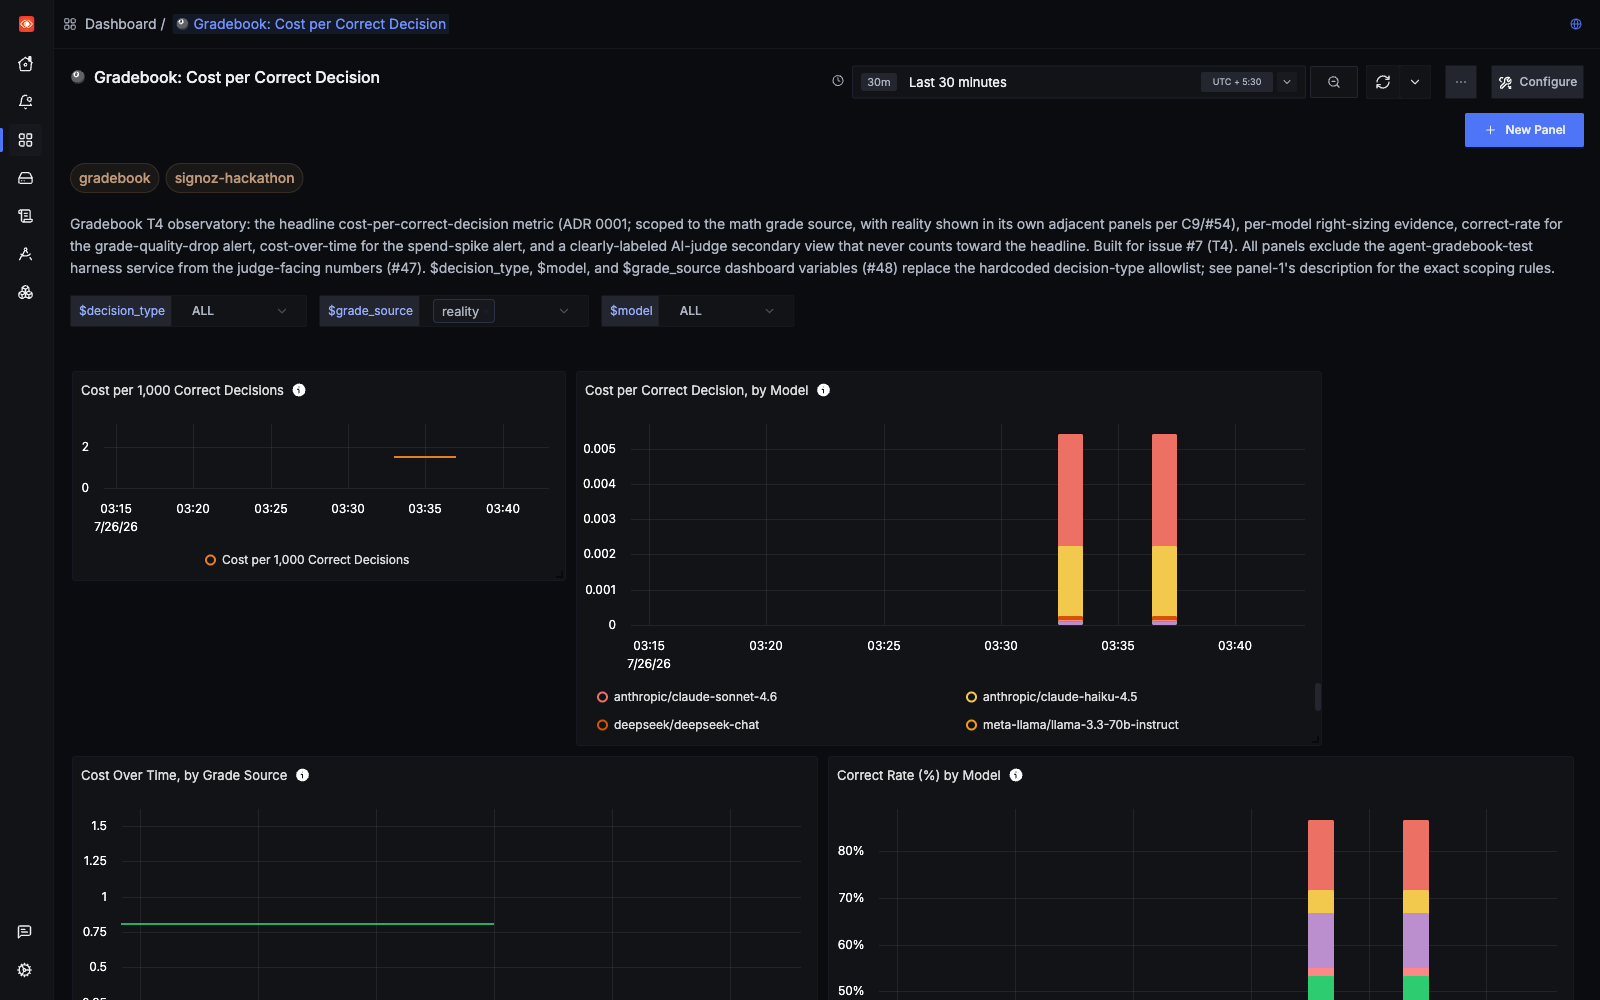
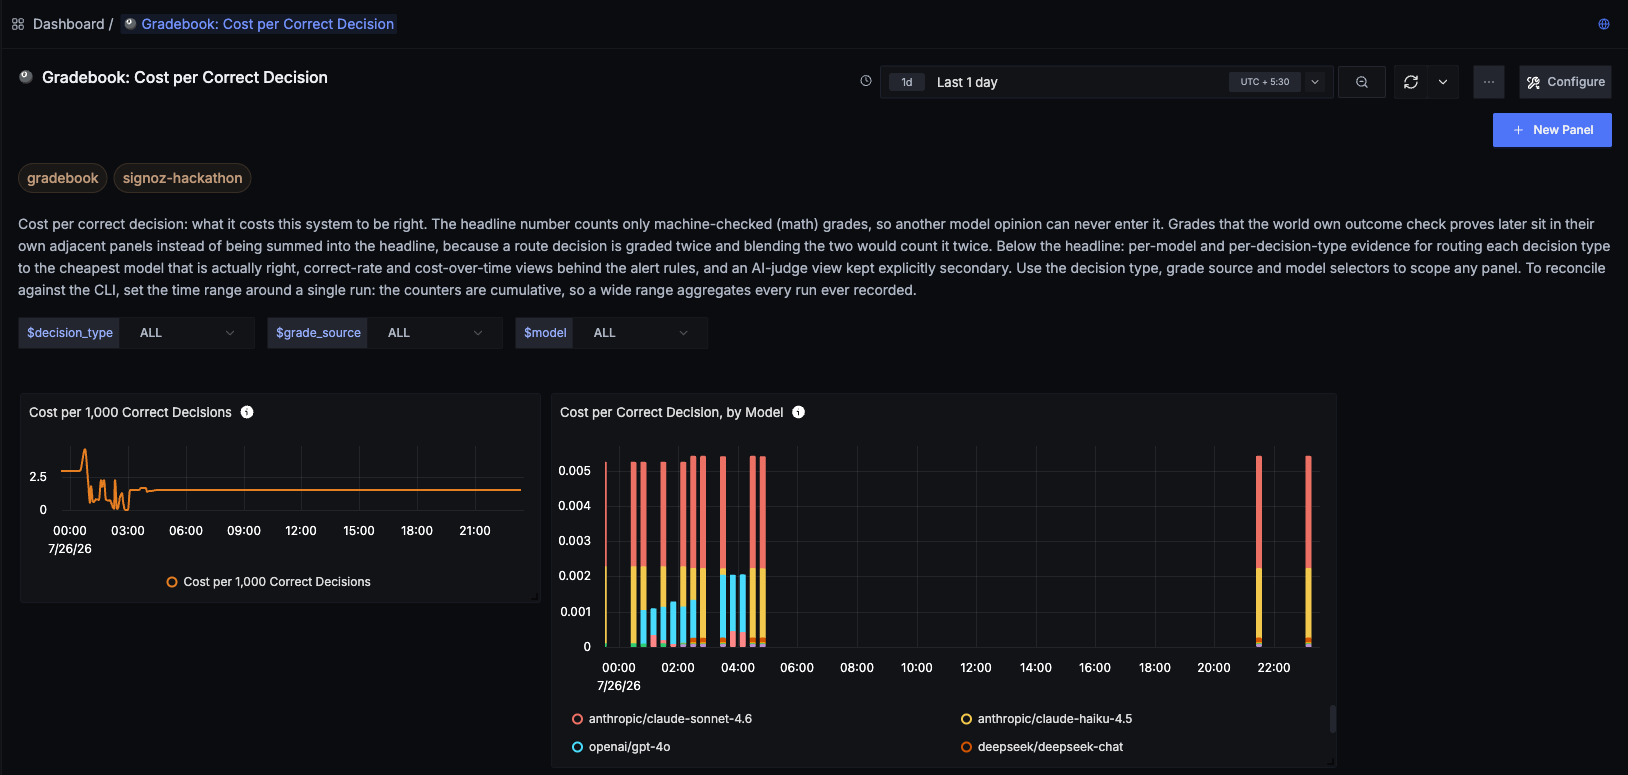
docs: lead the README with SigNoz, refresh stale screenshots, document the alerts
The two dashboard screenshots were captured before the dashboard was widened
to include CleanCut, so they showed toy-world only and no longer matched the
live stack. Recaptured all three from the running dashboard over a 24h window:
the right-sizing grid now shows CleanCut and toy-world in the same table, which
is the whole "same ruler on both substrates" argument in one image, and a new
panel capture shows performance_prediction live.

SigNoz now leads the README instead of the toy-world viewer. This is a
submission judged partly on Best Use of SigNoz, and the first screenshot a
reader hit was our own Three.js viewer.

The alerts section said only "five rules spanning all three rule types", which
told a reader nothing about what any of them watches. Replaced with a table of
what each rule fires on and why it exists, plus the Telegram notification body
verbatim. That body previously read "check Alerts page" and now states the
metric, the window, the condition, what it means and which panel answers the
question next.

Also re-syncs the committed dashboard JSON with the live service.name
allowlist so the two cannot drift, and gitignores local agent scratch notes so
they cannot reach a public repo.

diff --git a/README.md b/README.md
@@ -29,6 +29,98 @@ The whole thing is proven on **toy-world** — a 20-junction road network where 
 
 ---
 
+## What this looks like in SigNoz
+
+Everything below is a live capture of this project running, not a mockup. Two
+substrates report into the same dashboard: `toy-world`, where we compute the
+answer key ourselves, and `cleancut-proof`, a real revenue-generating product
+where we do not.
+
+![The Gradebook cost-per-correct-decision dashboard running in SigNoz: the decision type, grade source and model variables across the top, a cost per 1,000 correct decisions panel, a cost per correct decision by model panel broken down across claude-sonnet-4.6, claude-haiku-4.5, openai/gpt-4o and deepseek-chat, cost over time by grade source, and correct rate percent by model](docs/screenshots/dashboard-headline.png)
+
+*The headline dashboard. The `$grade_source` selector at the top is the whole
+argument in one control: set it to `math` and the number counts only grades a
+checker proved, and a model's opinion has no way in.*
+
+![The right-sizing grid panel in SigNoz: a table of decision type by model with correct, graded and cost columns, showing filler_detection at 102 of 110 for openai/gpt-4o at $0.15 against 26 of 110 for gpt-4o-mini, quote_extraction at 70 of 110 for gpt-4o-mini at $0.00971 against 53 of 110 for gpt-4o at $0.17, and next_hop at 20 of 20 for deepseek-chat, gpt-4o-mini and gemini-2.5-flash-lite, alongside the failure-events-by-class and recent-failure-events log panels](docs/screenshots/right-sizing-grid.png)
+
+*The right-sizing grid, and the reason this project keys on decision type rather
+than on model. Read the two CleanCut rows against each other: on `filler_detection`
+the expensive model earns its money, 102 of 110 against 26 of 110. On
+`quote_extraction` the same cheap model **beats** it, 70 of 110 against 53, for
+about a seventeenth of the cost. One roster, one run, opposite answers, decided
+only by which decision was being made.*
+
+![The CleanCut Decisions by Type panel in SigNoz: a stacked bar chart over 24 hours showing filler_detection, quote_extraction, performance_prediction and clip_scoring decision volumes](docs/screenshots/cleancut-decisions.png)
+
+*The same recording contract on a real product. `performance_prediction` is the
+newest decision type, graded against a ground-truth CSV built from real
+views-per-day data across 45 items.*
+
+### What actually lands
+
+- **Services** — `toy-world` and `cleancut-proof` (the decisions), plus `toy-world-outcomes` and `cleancut-outcomes` (the late reality grades). The deferred grade demonstrably crosses a service boundary, as it would in a real system.
+- **Traces** — a waterfall of `<decision_type> <query_id> decision` → `gen_ai.evaluation.result`, with the later reality grade span-linked back rather than nested.
+- **Events** — every grade carries `augmentloop.grade.source`, `augmentloop.decision.type`, `augmentloop.cost.usd`, and the frozen standard attributes. Decision spans additionally carry `augmentloop.decision.difficulty`.
+- **Dashboards** — two, committed as JSON in [`dashboards/`](dashboards/), with `$decision_type` / `$model` / `$grade_source` variables rather than a hardcoded allowlist.
+- **Saved views** — decision traces, failure events, judge-run health.
+
+### Alerts, and what each one actually watches
+
+Five rules ship as JSON in [`dashboards/`](dashboards/), spanning **all three** of
+SigNoz's rule types. Each one watches a specific failure of this system, and its
+notification says what tripped and what to do about it rather than telling you to
+go and look somewhere.
+
+| Rule | Type | Fires when | Why it exists |
+| --- | --- | --- | --- |
+| **Grading Pipeline Silent** | threshold + `alertOnAbsent` | nothing has been graded, from any grade source, for 10 minutes | The worst failure here is silent. A grader that stops emitting looks exactly like a system with nothing to do |
+| **Grade Quality Drop** | threshold | the correct-decision rate falls below its threshold | This is the alert that catches a bad reroute. Quality falling after a model swap is the thing the whole loop is built to prevent |
+| **Grade Quality Anomaly** | anomaly | correct-decision volume is anomalously low against its own seasonal baseline | Catches the slow degradation a fixed threshold sails straight past |
+| **Spend Spike** | threshold | decision cost burns past its threshold in 30 minutes | Cost is half the headline metric. A runaway loop should page someone before the invoice does |
+| **Budget Guard Repeated Trips** | log-based | the in-process budget guard trips 3 or more times in 5 minutes | One trip is the guard working. Three in five minutes means something upstream is retrying into a wall |
+
+**Delivery is wired and confirmed, not assumed.** A webhook channel posts to
+Telegram, and the message is written to be read on a phone with no dashboard
+open: which rule fired, the metric and window behind it, what it means in plain
+words, and which panel answers the question next. Here is the body, verbatim:
+
+```
+SigNoz - ALERT FIRING
+
+Gradebook: Live Decision Volume
+severity critical - team gradebook
+
+WHAT IT WATCHES
+count(gradebook.decisions.graded) over a 15m rolling window, across
+services toy-world, toy-world-outcomes, cleancut-proof and cleancut-outcomes.
+
+CONDITION
+graded decisions in the window > 0
+
+WHAT IT MEANS
+AI decisions are being graded and priced right now. The recording path is
+alive end to end: a decision span, a gen_ai.evaluation.result carrying
+augmentloop.grade.source, and the cost in USD that goes with it.
+
+WHAT TO DO
+Open the "Gradebook: Cost per Correct Decision" dashboard in SigNoz and read
+cost per correct decision by model and by decision type. If a decision type's
+correct rate moved, the right-sizing grid is the panel that says which model
+to reroute it to.
+```
+
+That particular rule is a **deliberately low-bar liveness tripwire** built so the
+delivery path could be demonstrated end to end on a live stack; the five rules
+above are the production-shaped ones. Saying so is the point. Two of those five
+are also documented as **dormant on a cold stack** rather than quietly shipped:
+the anomaly rule cannot fire without seasonal history, and email delivery dies at
+the last hop because the stack runs no SMTP, which is exactly why the working
+channel is a webhook. Both are measured facts written into
+[docs/judge-run.md](docs/judge-run.md), not predictions.
+
+---
+
 ## The live demo
 
 **→ [gradebook-toy-world.vercel.app](https://gradebook-toy-world.vercel.app)**
@@ -263,23 +355,6 @@ flowchart LR
 ```
 
 A reroute is a **diff in a committed file**, not a flag and not an environment variable, for three reasons: a proposal becomes something you can read before you say yes; before-and-after is reproducible from git rather than from someone's shell history; and it keys on decision *type*, so a reroute of `next_hop` alone is directly comparable without the other two types' spend leaking in. An unpriceable or unknown model in that file **fails loudly at load**, before any model call is placed. A bad approval costs nothing. Full walkthrough: [docs/right-sizing-loop.md](docs/right-sizing-loop.md).
-
----
-
-## What lands in SigNoz
-
-![The Gradebook cost-per-correct-decision dashboard running in SigNoz: dashboard variables for decision type, grade source and model, a cost per 1,000 correct decisions panel, a cost per correct decision by model panel, cost over time by grade source, and correct rate percent by model](docs/screenshots/dashboard-headline.png)
-
-![The right-sizing grid panel in SigNoz: a table of decision type by model showing next_hop scoring 20 of 20 correct for gemini-2.5-flash-lite at $0.0011 against claude-sonnet-4.6 at $0.0314, alongside the failure-events-by-class and recent-failure-events log panels](docs/screenshots/right-sizing-grid.png)
-
-- **Services** — `toy-world` (the decisions) and `toy-world-outcomes` (the late, `route_choice`-only reality grades). The deferred grade demonstrably crosses a service boundary, as it would in a real system.
-- **Traces** — one per model (`model-run <model>`): a waterfall of `<decision_type> <query_id> decision` → `gen_ai.evaluation.result`.
-- **Events** — every grade carries `augmentloop.grade.source`, `augmentloop.decision.type`, `augmentloop.cost.usd`, and the frozen standard attributes. Decision spans additionally carry `augmentloop.decision.difficulty`.
-- **Dashboards** — two, committed as JSON in [`dashboards/`](dashboards/), with `$decision_type` / `$model` / `$grade_source` variables rather than a hardcoded allowlist.
-- **Alerts** — five rules spanning **all three** of SigNoz's rule types (threshold, anomaly, log-based).
-- **Saved views** — decision traces, failure events, judge-run health.
-
-Two of those five alert rules are documented as **dormant on a cold stack** rather than quietly shipped: the anomaly rule cannot fire without seasonal history, and a firing rule reaches the dispatcher but dies at the last hop because the stack runs no SMTP. Both are measured facts written into [docs/judge-run.md](docs/judge-run.md), not predictions.
 
 ---
 
